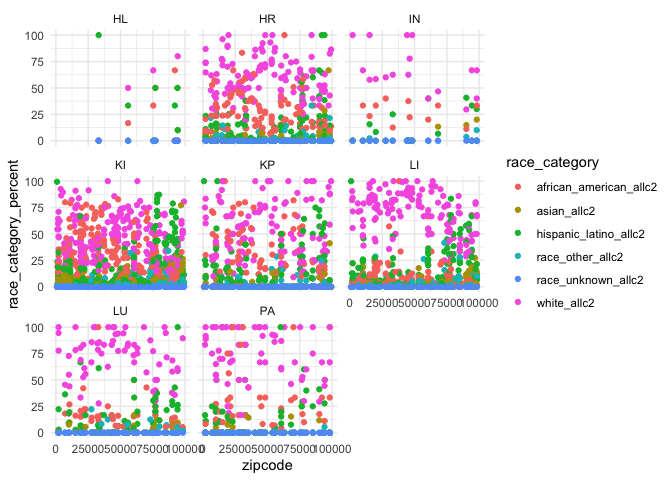
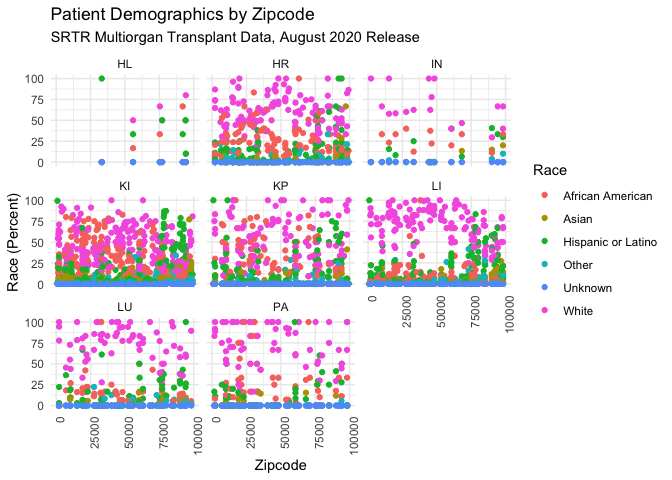
Updated summary plots.

diff --git a/SummaryPlotsMS.md b/SummaryPlotsMS.md
@@ -66,7 +66,7 @@ plot = df_all_age %>% ggplot(aes(x=zipcode, y =age_category_percent, color = age
     title = "Patient Age Groups by Zipcode", subtitle = phrase,
     x = "Zipcode",
     y = "Age Group (Percent)",color = "Age Group"
-  ) + theme_minimal()  + scale_color_hue(labels = c("Less Than 2 Years", "2 to 11 Years", "12 to 17 Years", "18 to 34 Years", "35 to 49 Years", "50 to 64 Years", "64 to 69 Years", "More Than 70 Years")) + facet_wrap(~org)
+  ) + theme_minimal()  + theme(axis.text.x=element_text(angle=90,hjust=1)) + scale_color_hue(labels = c("Less Than 2 Years", "2 to 11 Years", "12 to 17 Years", "18 to 34 Years", "35 to 49 Years", "50 to 64 Years", "64 to 69 Years", "More Than 70 Years")) + facet_wrap(~org)
 print(plot)
 ```
 
@@ -94,7 +94,7 @@ plot = df_all_gender %>% ggplot(aes(x=zipcode, y =gender_category_percent, color
     title = "Patient Gender Groups by Zipcode", subtitle = phrase,
     x = "Zipcode",
     y = "Gender Group (Percent)", color = "Gender"
-  ) + theme_minimal() + scale_color_hue(labels = c("Female", "Male")) + facet_wrap(~org)
+  ) + theme_minimal() + theme(axis.text.x=element_text(angle=90,hjust=1)) + scale_color_hue(labels = c("Female", "Male")) + facet_wrap(~org)
 print(plot)
 ```
 
@@ -119,17 +119,12 @@ df_all_demographics = rbind(df_one_demographics, df_two_demographics, df_three_d
 I will plot the demographics dataframes
 
 ``` r
-plot = df_all_demographics %>% ggplot(aes(x=zipcode, y =race_category_percent, color = race_category)) + geom_point()+ theme_minimal() + facet_wrap(~org)
+plot = df_all_demographics %>% ggplot(aes(x=zipcode, y =race_category_percent, color = race_category)) + geom_point() + theme_minimal() + 
   labs(
-    title = "Patient Demographics by Zipcode",subtitle = phrase,
+    title = "Patient Demographics by Zipcode", subtitle = phrase,
     x = "Zipcode",
     y = "Race (Percent)", 
-    color = "Race") + scale_color_hue(labels = c("African American", "Asian", "Hispanic or Latino", "Other", "Unknown", "White"))
-```
-
-    ## NULL
-
-``` r
+    color = "Race") + scale_color_hue(labels = c("African American", "Asian", "Hispanic or Latino", "Other", "Unknown", "White")) + theme(axis.text.x=element_text(angle=90,hjust=1)) + facet_wrap(~org)
 print(plot)
 ```
 
